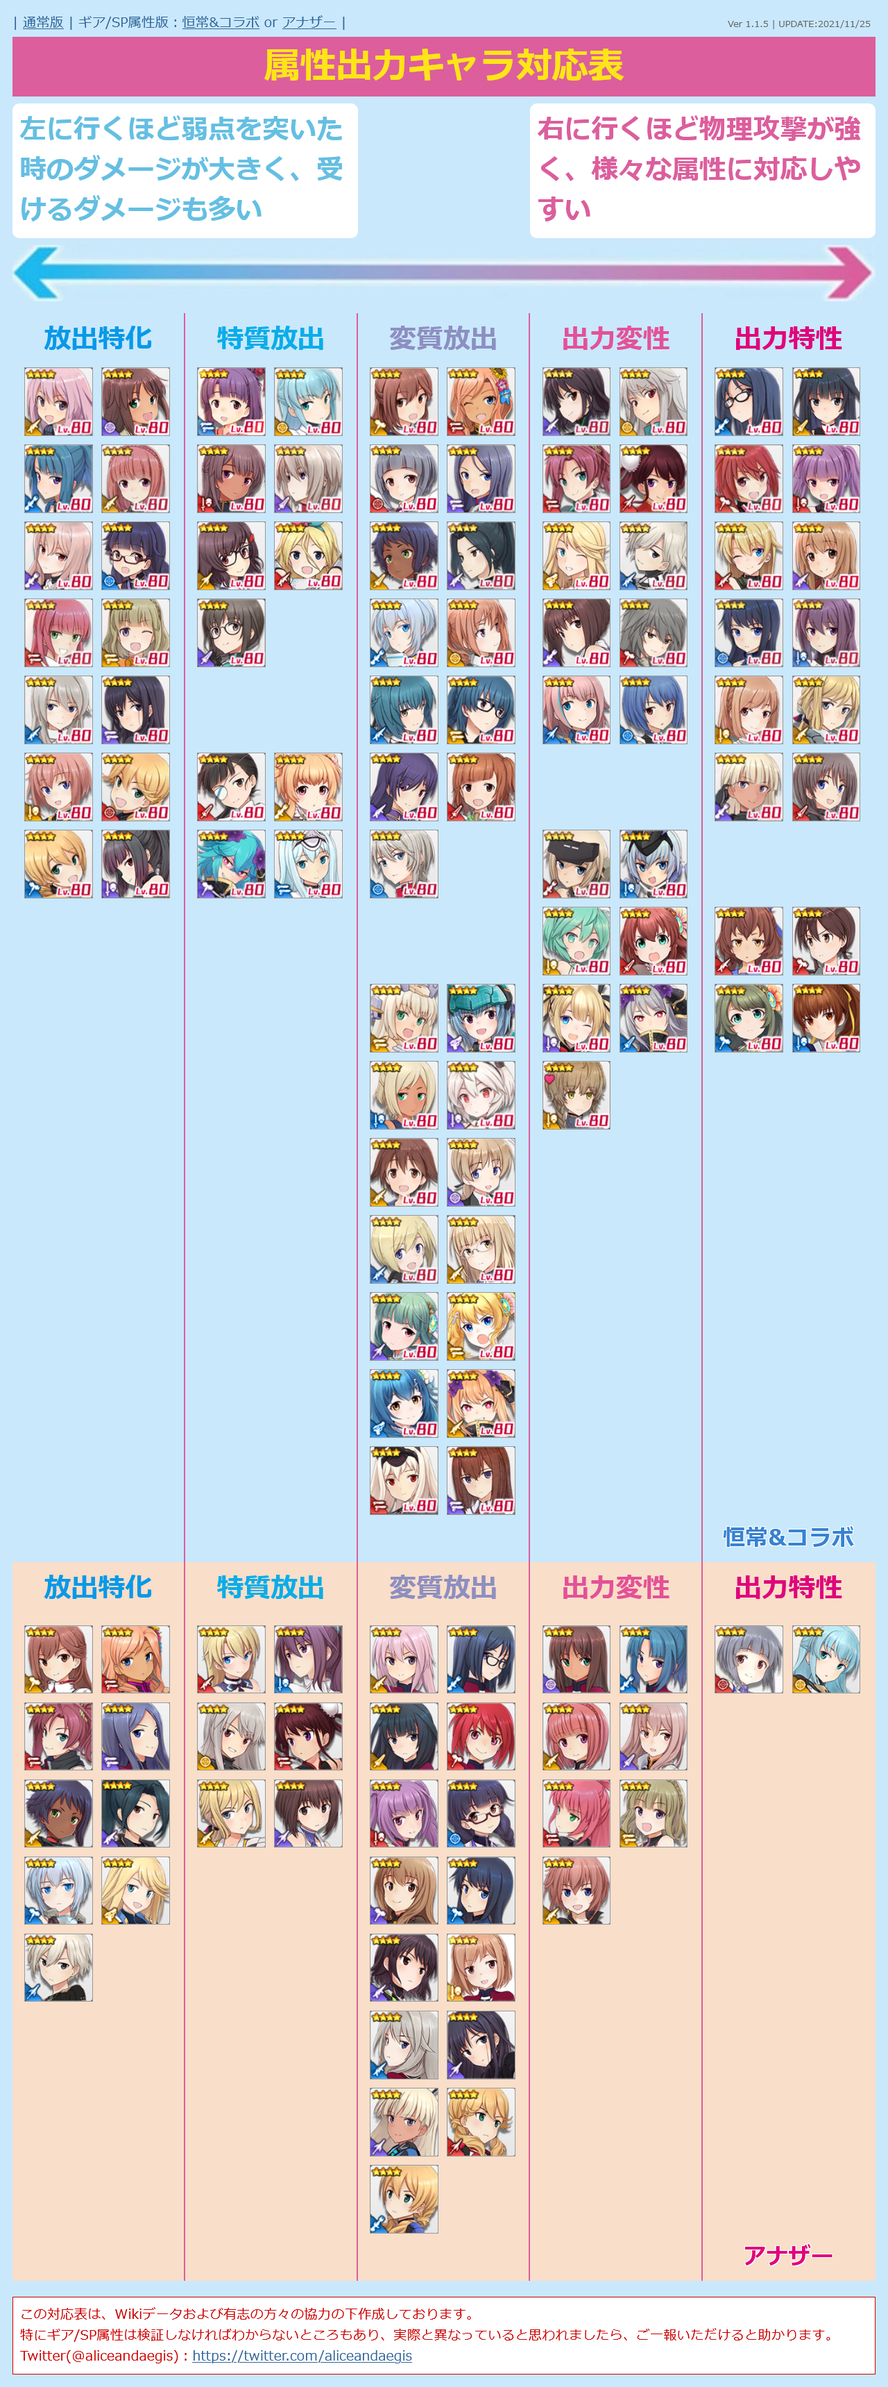
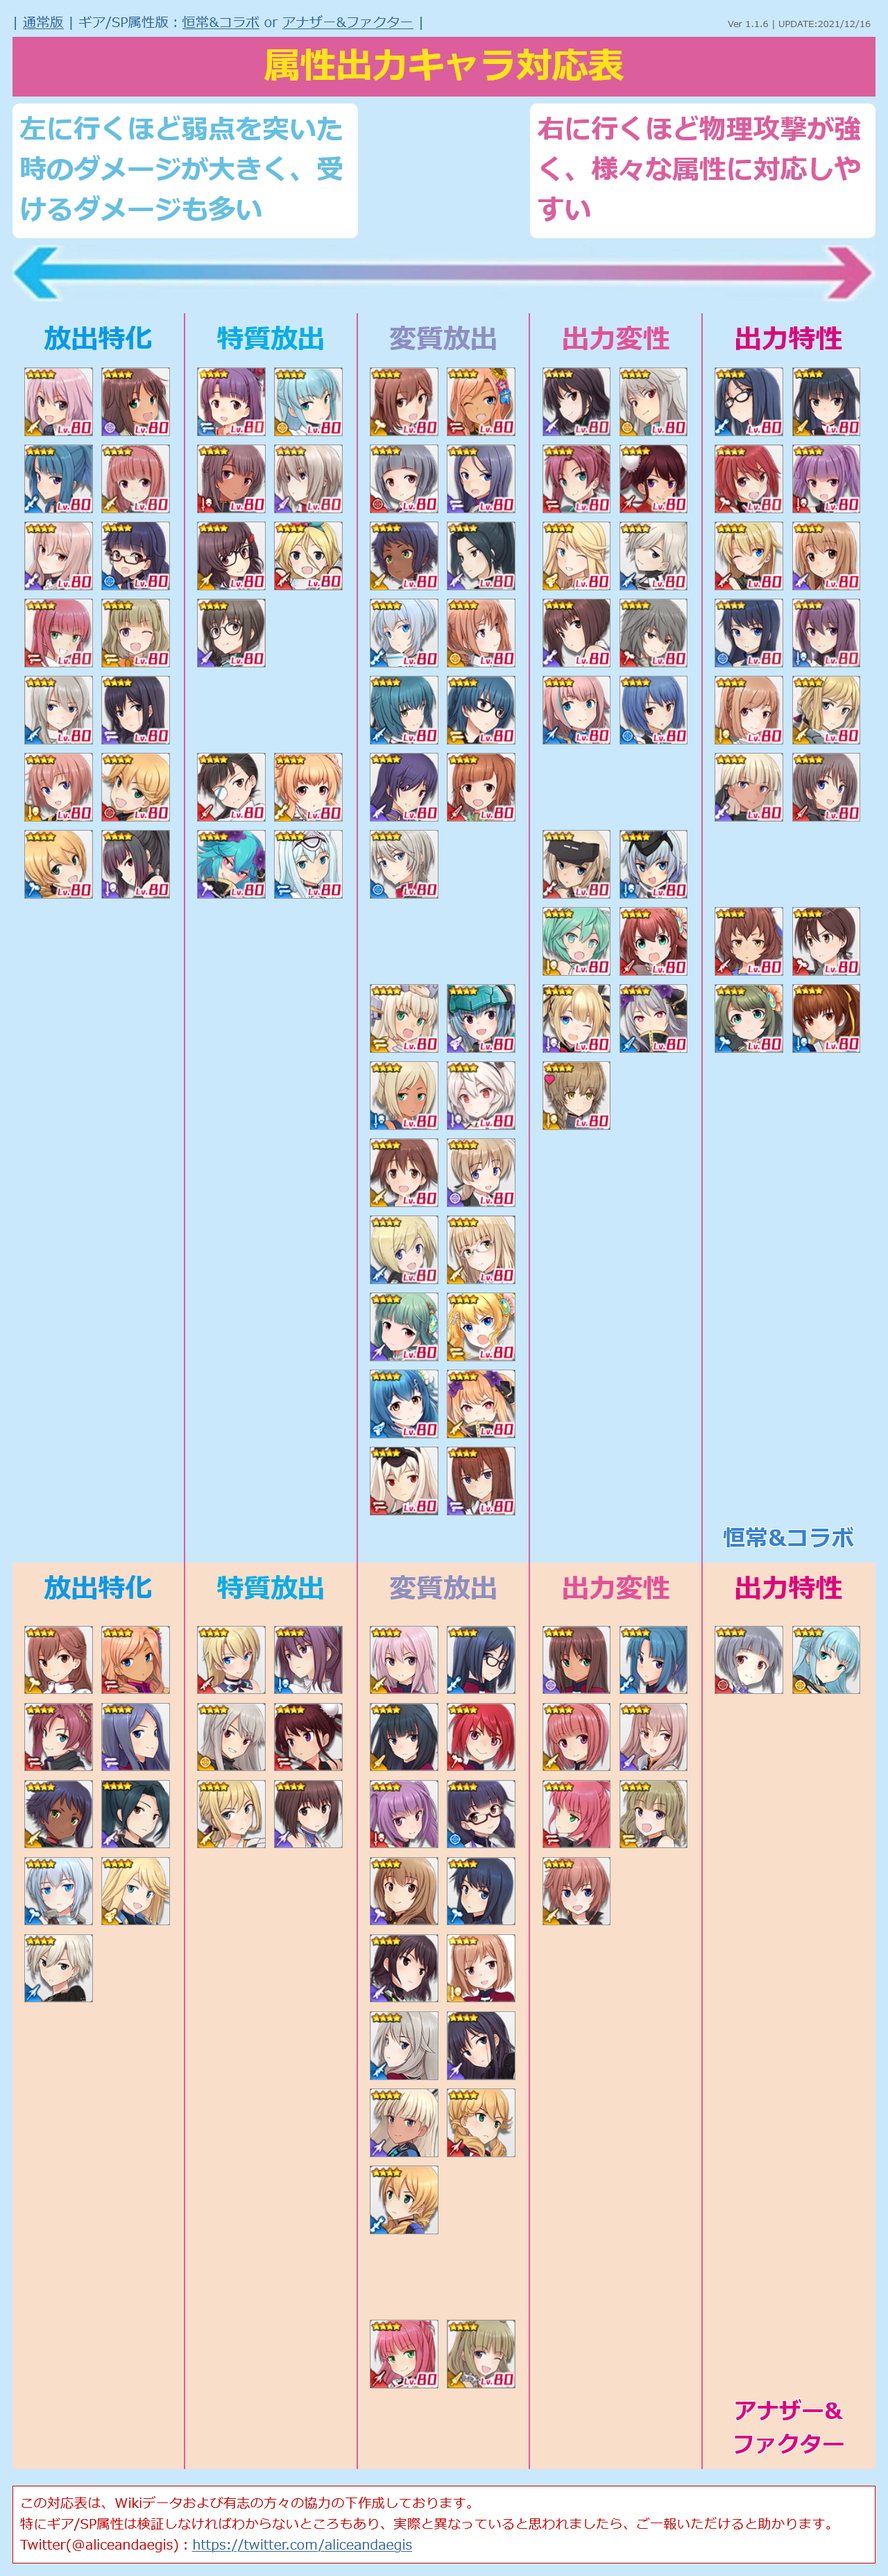
UPDATE ver 1.1.6
・ファクター 藤野やよい / ライブを追加
・ファクター 下落合桃歌 / ライブを追加

diff --git a/alice.html b/alice.html
@@ -12,7 +12,7 @@
   <script>
 
 /* 更新情報 必要に応じて書き換えてください */
-  var version = "Ver 1.1.5 | UPDATE:2021/11/25";
+  var version = "Ver 1.1.6 | UPDATE:2021/12/16";
 
 
 /*
@@ -25,7 +25,7 @@
   type     = 1=放出特化、2=特質放出、3=変質放出、4=出力変性、5=出力特性
   src      = 画像ファイル名
   name     = キャラクター名
-  category = アナザーは10、コラボは99、それ以外は空欄
+  category = アナザーは10、ファクターは11、コラボは99、それ以外は空欄
 
   equip1   = ショット：1=実弾、2=エネルギー弾（複数=12、派生=1/2）
   equip2   = クロス：3=斬撃、4=打撃（複数の場合=34）
@@ -641,6 +641,20 @@
       "category": "10"
     },
     {
+      "id": "21",
+      "type": "3",
+      "src": "factor-yayoi.png",
+      "name": "藤野 やよい / ライブ",
+      "equip1": "1/2",
+      "equip2": "3",
+      "equip3": "35",
+      "equip4": "25",
+      "sp": "2",
+      "attr": "3",
+      "link": "https://wikiwiki.jp/alicegear/%E8%97%A4%E9%87%8E%E3%82%84%E3%82%88%E3%81%84/%E3%83%A9%E3%82%A4%E3%83%96",
+      "category": "11"
+    },
+    {
       "id": "22",
       "type": "1",
       "src": "normal-toka.png",
@@ -667,6 +681,20 @@
       "attr": "1",
       "link": "https://wikiwiki.jp/alicegear/%E4%B8%8B%E8%90%BD%E5%90%88%E6%A1%83%E6%AD%8C%E6%98%8E%E6%98%9F",
       "category": "10"
+    },
+    {
+      "id": "22",
+      "type": "3",
+      "src": "factor-toka.png",
+      "name": "下落合 桃歌 / ライブ",
+      "equip1": "2",
+      "equip2": "3",
+      "equip3": "2",
+      "equip4": "2",
+      "sp": "35",
+      "attr": "1",
+      "link": "https://wikiwiki.jp/alicegear/%E4%B8%8B%E8%90%BD%E5%90%88%E6%A1%83%E6%AD%8C/%E3%83%A9%E3%82%A4%E3%83%96",
+      "category": "11"
     },
     {
       "id": "23",
@@ -1768,8 +1796,8 @@
       "name": "牧瀬紅 莉栖",
       "equip1": "2",
       "equip2": "4",
-      "equip3": "2?",
-      "equip4": "2?",
+      "equip3": "25?",
+      "equip4": "25?",
       "sp": "2",
       "attr": "2",
       "link": "https://wikiwiki.jp/alicegear/%E7%89%A7%E7%80%AC%E7%B4%85%E8%8E%89%E6%A0%96",
@@ -1802,7 +1830,7 @@
 
 <body>
 
-<archive id="menu">| <a href="alice.html" class="simple" text="属性出力キャラ対応表">通常版</a> | ギア/SP属性版：<a href="alice.html?m=equip" class="equip" text="属性出力ギア/SP対応表(恒常&amp;コラボ)">恒常&amp;コラボ</a> or <a href="alice.html?m=equip2" class="equip2" text="属性出力ギア/SP対応表(アナザー)">アナザー</a> |</archive>
+<archive id="menu">| <a href="alice.html" class="simple" text="属性出力キャラ対応表">通常版</a> | ギア/SP属性版：<a href="alice.html?m=equip" class="equip" text="属性出力ギア/SP対応表(恒常&amp;コラボ)">恒常&amp;コラボ</a> or <a href="alice.html?m=equip2" class="equip2" text="属性出力ギア/SP対応表(アナザー&amp;ファクター)">アナザー&amp;ファクター</a> |</archive>
 <archive id="version"></archive>
 
 <archive id="header">
@@ -1923,7 +1951,7 @@
     </li>
 
     <li id="tokusei5a">
-      <span>アナザー</span>
+      <span>アナザー&amp;<br>ファクター</span>
     </li>
   </ul>
 </archive>

diff --git a/js/main.js b/js/main.js
@@ -22,7 +22,7 @@ $(function() {
     $('h1').text('属性出力ギア/SP対応表(恒常&コラボ)');
   }else if(mode == 'equip2'){/* 過去の名残り ?m=gear でアクセスすると動作 */
     $('body').attr('id', 'equip');
-    $('h1').text('属性出力ギア/SP対応表(アナザー)');
+    $('h1').text('属性出力ギア/SP対応表(アナザー&ファクター)');
   }
 
   function getParam(name, url) {
@@ -45,6 +45,7 @@ $(function() {
       var data_category=target_data[i].category;
       if(target_type == data_type && target_category == data_category){/* 任意のデータだけ出力 */
         var collabostr="";
+        if(data_category == 11){ collaboCheck++; }
         if(data_category == 99){ collaboCheck++; collabostr='【コラボキャラ】 '; }
         if(collaboCheck == 1){/* 恒常とコラボの隙間を作成 */
           var youso = ulObj.children('span').length;
@@ -176,6 +177,12 @@ $(function() {
   AliceList("#tokusei3a",data,"3","10");/* 変質放出 アナザー */
   AliceList("#tokusei4a",data,"4","10");/* 出力変性 アナザー */
   AliceList("#tokusei5a",data,"5","10");/* 出力特性 アナザー */
+  AliceList("#tokusei1a",data,"1","11");/* 放出特化 ファクター */
+  AliceList("#tokusei2a",data,"2","11");/* 特質放出 ファクター */
+  AliceList("#tokusei3a",data,"3","11");/* 変質放出 ファクター */
+  AliceList("#tokusei4a",data,"4","11");/* 出力変性 ファクター */
+  AliceList("#tokusei5a",data,"5","11");/* 出力特性 ファクター */
+
   if(mode == 'equip'){
     $("#another").hide();
     $("#another2").hide();
